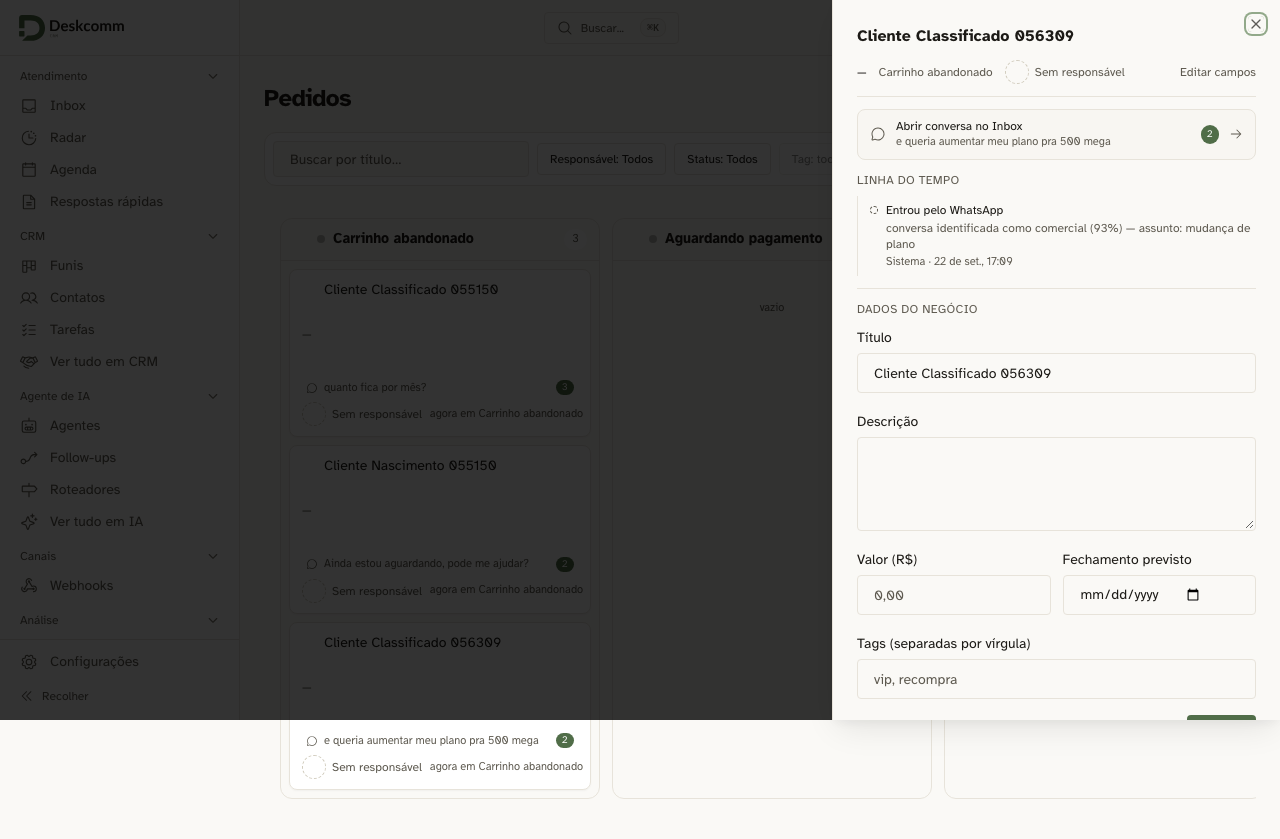
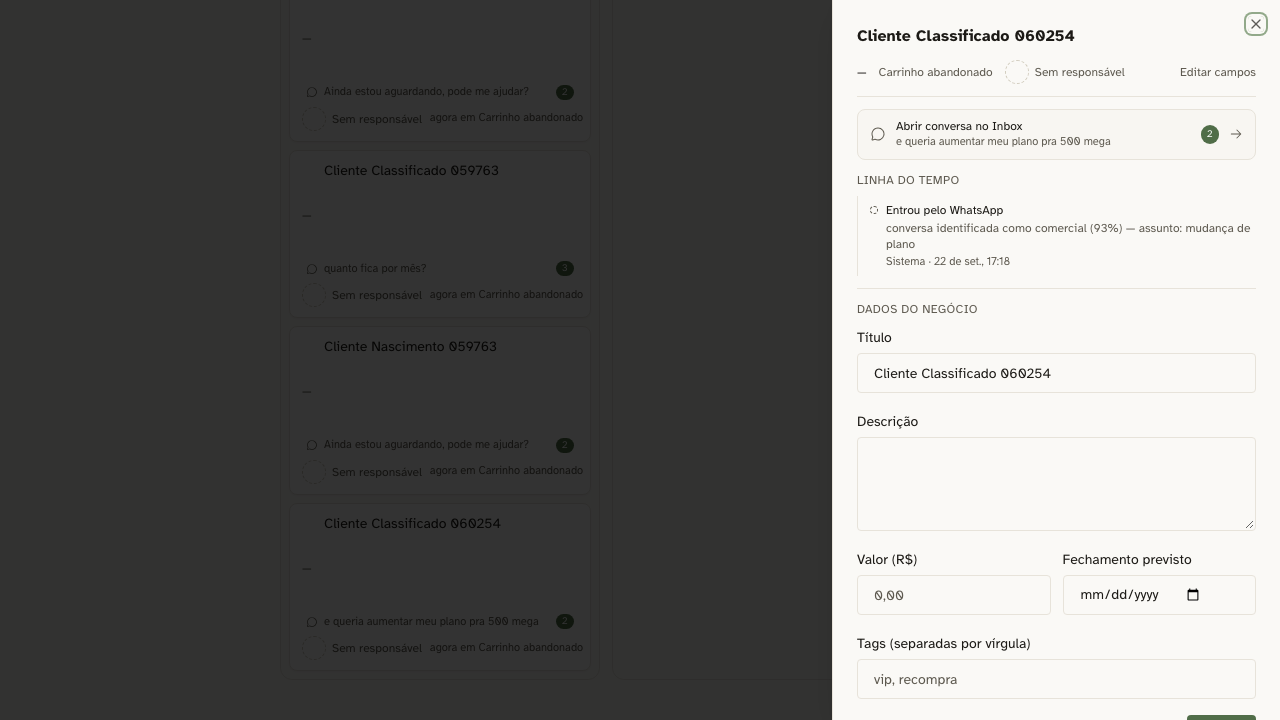
test(e2e): selo "Em vigor" provado pela tela na visão do gerente
A spec passa a afirmar que o gerente vê o selo "Em vigor" na opção
marcada, e só nela, e que o admin não o vê (para ele, a opção marcada
pode ser escolha ainda não salva). A captura do dossiê passa a ser só da
janela: o painel é fixo, e com o quadro mais alto que a janela a captura
de página inteira o desenhava deslocado. Capturas atualizadas; 7/7 com
conversa-vira-lead como controle.

diff --git a/tests/e2e/card-pelo-classificador.spec.ts b/tests/e2e/card-pelo-classificador.spec.ts
@@ -292,6 +292,9 @@ test.describe("o card nasce quando a conversa é comercial", () => {
     await expect(
       page.getByTestId("nascimento-do-card").getByRole("radio", { name: /só conversas comerciais/i }),
     ).toBeChecked({ timeout: 20_000 });
+    // O selo é de quem NÃO pode editar: para o admin, a opção marcada pode ser
+    // uma escolha ainda não salva, e chamá-la "Em vigor" seria mentira.
+    await expect(page.getByTestId("nascimento-do-card").getByText("Em vigor")).toHaveCount(0);
     fs.mkdirSync("evidence/card-pelo-classificador", { recursive: true });
     await page.screenshot({ path: "evidence/card-pelo-classificador/regra-ligada.png", fullPage: true });
   });
@@ -317,6 +320,9 @@ test.describe("o card nasce quando a conversa é comercial", () => {
     await expect(secao.getByRole("radio", { name: /só conversas comerciais/i })).toBeDisabled();
     await expect(secao.getByRole("button", { name: /salvar/i })).toHaveCount(0);
     await expect(secao.getByText("Só um administrador pode mudar essa regra.")).toBeVisible();
+    // Desabilitado não pode apagar QUAL regra vale: o selo fica na opção em vigor, e só nela.
+    await expect(secao.getByTestId("opcao-nascimento-classificador").getByText("Em vigor")).toBeVisible();
+    await expect(secao.getByText("Em vigor")).toHaveCount(1);
     await page.screenshot({ path: "evidence/card-pelo-classificador/regra-vista-pelo-gerente.png", fullPage: true });
 
     await abrirQuadroDeEntrada(page);
@@ -340,7 +346,10 @@ test.describe("o card nasce quando a conversa é comercial", () => {
       page.getByText(/conversa identificada como comercial \(93%\) — assunto: mudança de plano/i).first(),
     ).toBeVisible({ timeout: 20_000 });
     fs.mkdirSync("evidence/card-pelo-classificador", { recursive: true });
-    await page.screenshot({ path: "evidence/card-pelo-classificador/card-nascido-comercial.png", fullPage: true });
+    // Só a janela, não `fullPage`: o dossiê é um painel FIXO, e num quadro mais
+    // alto que a janela (banco compartilhado, cards de outras rodadas) a captura
+    // de página inteira desenhava o painel deslocado para o meio da imagem.
+    await page.screenshot({ path: "evidence/card-pelo-classificador/card-nascido-comercial.png" });
   });
 
   test("com o card aberto, a mensagem seguinte NÃO chama o Jev", async ({ page }) => {
